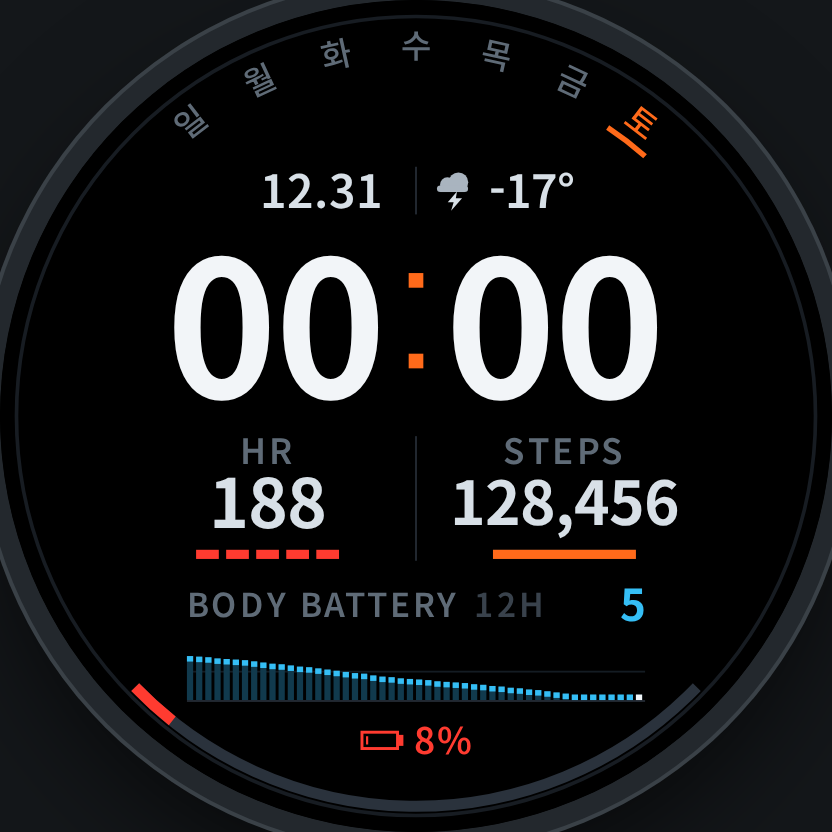
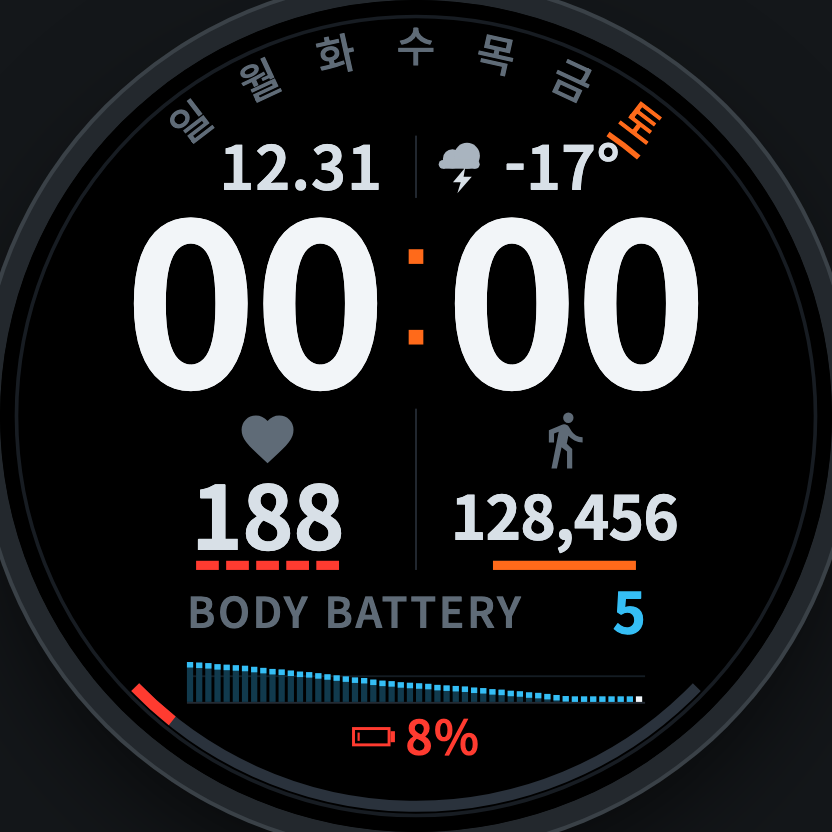
fix: AOD에서 본 화면과 동일한 페이스 표시
fr265는 AMOLED 번인 보호 대상이라 저전력 모드에 픽셀 10% 이하, 같은
픽셀 3분 이상 점등 금지 규칙이 걸린다. 기존 AOD 레이어는 축소판을
정지 상태로 그려 3분 규칙에 걸렸고, 시계가 페이스를 끄고 기본 AOD로
대체했다.

AOD 전용 레이아웃/색상 분기를 모두 걷어내고, 저전력 모드에서는 같은
페이스를 그린 뒤 홀/짝 분마다 번갈아 가로 한 줄씩 가리는 마스크만
덮는다. 시뮬레이터 번인 검사: 휘도 사용 3.2%, 24시간 시뮬레이션 통과.

diff --git a/preview/face.js b/preview/face.js
@@ -114,10 +114,6 @@
     batArcW: 6,
     batArcSpan: 46, // degrees either side of bottom dead centre
 
-    /* always-on display: fewer elements, recomposed around the centre */
-    aodStripCy: 152,
-    aodTimeCy: 227,
-    aodBatCy: 312,
   };
 
   var VALUE_SIZES = [48, 43, 38, 33];
@@ -369,9 +365,9 @@
    * Sections
    * ------------------------------------------------------------------ */
 
-  function drawBezel(ctx, g, dim) {
+  function drawBezel(ctx, g) {
     ctx.beginPath();
-    ctx.strokeStyle = dim ? '#0E1216' : C.ring;
+    ctx.strokeStyle = C.ring;
     ctx.lineWidth = g(L.ringW);
     ctx.arc(g(227), g(227), g(L.ringR), 0, Math.PI * 2);
     ctx.stroke();
@@ -389,7 +385,7 @@
       var deg = (i - 3) * L.wdStep;
       var th = (deg * Math.PI) / 180;
       var on = i === today;
-      var color = on ? (opts.dim ? '#8A4413' : C.accent) : opts.dim ? '#2E353D' : C.textLow;
+      var color = on ? C.accent : C.textLow;
 
       ctx.save();
       ctx.translate(cx + Math.sin(th) * g(L.wdR), cy - Math.cos(th) * g(L.wdR));
@@ -414,18 +410,11 @@
   }
 
   function drawStrip(ctx, g, data, opts) {
-    var cy = opts.dim ? L.aodStripCy : L.stripCy;
-    var hi = opts.dim ? '#4C555D' : C.textVal;
-    var mid = opts.dim ? '#3B434B' : C.textMid;
+    var cy = L.stripCy;
+    var hi = C.textVal;
+    var mid = C.textMid;
 
-    rect(
-      ctx,
-      g(227) - g(1) / 2,
-      g(cy - (L.stripCy - L.stripDivTop)),
-      g(1),
-      g(L.stripDivBot - L.stripDivTop),
-      opts.dim ? '#161A1F' : C.hair,
-    );
+    rect(ctx, g(227) - g(1) / 2, g(L.stripDivTop), g(1), g(L.stripDivBot - L.stripDivTop), C.hair);
 
     text(ctx, pad2(data.month) + '.' + pad2(data.day), g(L.dateRight), g(cy), {
       size: gf(g, L.stripFont),
@@ -451,9 +440,9 @@
     var hh = pad2(data.hour);
     var mm = pad2(data.minute);
     var size = gf(g, L.timeFont);
-    var color = opts.dim ? '#606A73' : C.textHi;
+    var color = C.textHi;
     var cx = g(227);
-    var cy = g(opts.dim ? L.aodTimeCy : L.timeCy);
+    var cy = g(L.timeCy);
 
     tabular(ctx, hh, cx - g(L.colonHalfGap), cy, {
       size: size,
@@ -471,7 +460,7 @@
     });
 
     var sq = g(L.colonSq);
-    var ck = opts.dim ? '#6B3210' : C.accent;
+    var ck = C.accent;
     var ccy = cy + g(L.colonShift);
     rect(ctx, cx - sq / 2, ccy - g(L.colonDy) - sq / 2, sq, sq, ck);
     rect(ctx, cx - sq / 2, ccy + g(L.colonDy) - sq / 2, sq, sq, ck);
@@ -591,17 +580,15 @@
 
   function drawBattery(ctx, g, data, opts) {
     var pct = data.battery;
-    var col = opts.dim ? '#4C555D' : batteryColor(pct);
+    var col = batteryColor(pct);
 
     var cx = g(227);
-    var cy = opts.dim ? L.aodBatCy : L.batCy;
+    var cy = L.batCy;
 
-    if (!opts.dim) {
-      var from = 90 + L.batArcSpan;
-      var sweep = 2 * L.batArcSpan;
-      arc(ctx, cx, cx, g(L.batArcR), from, from - sweep, g(L.batArcW), C.arcTrack);
-      arc(ctx, cx, cx, g(L.batArcR), from, from - sweep * (pct / 100), g(L.batArcW), col);
-    }
+    var from = 90 + L.batArcSpan;
+    var sweep = 2 * L.batArcSpan;
+    arc(ctx, cx, cx, g(L.batArcR), from, from - sweep, g(L.batArcW), C.arcTrack);
+    arc(ctx, cx, cx, g(L.batArcR), from, from - sweep * (pct / 100), g(L.batArcW), col);
 
     /* numeric readout */
     var label = Math.round(pct) + '%';
@@ -640,9 +627,6 @@
     opts = opts || {};
     opts.weekdayLocale = opts.weekdayLocale || 'ko';
     FS = opts.fontScale || 1;
-    var dim = opts.mode === 'aod';
-    opts.dim = dim;
-
     var g = function (v) {
       return (v * size) / DESIGN;
     };
@@ -650,17 +634,24 @@
     ctx.save();
     circle(ctx, size / 2, size / 2, size / 2, C.bg);
 
-    drawBezel(ctx, g, dim);
+    drawBezel(ctx, g);
     drawWeekdays(ctx, g, data, opts);
     drawStrip(ctx, g, data, opts);
     drawTime(ctx, g, data, opts);
-
-    /* Always-on display keeps only the time-critical layer lit. */
-    if (!dim) {
-      drawStatRow(ctx, g, data);
-      drawBodyBattery(ctx, g, data);
-    }
+    drawStatRow(ctx, g, data);
+    drawBodyBattery(ctx, g, data);
     drawBattery(ctx, g, data, opts);
+
+    /* Always-on display is the same face behind a row mask: every other
+       device row is blanked and the parity flips with the minute, which is
+       what AMOLED burn-in protection asks for (<=10% lit, no pixel lit for
+       three minutes). Mirrors ReconView.drawAodMask. */
+    if (opts.mode === 'aod') {
+      ctx.fillStyle = C.bg;
+      for (var y = data.minute % 2; y < size; y += 2) {
+        ctx.fillRect(0, y, size, 1);
+      }
+    }
 
     ctx.restore();
   }

diff --git a/README.md b/README.md
@@ -64,9 +64,11 @@ bounding box. Wide values (a six-digit step count) step down through a font
 ladder rather than spilling into the neighbouring cell, and the body battery
 window tag (`12H`) is dropped when a three-digit body battery needs the room.
 
-**Always-on display** keeps the weekday arc, date, weather, time and battery
-percentage, recomposed around the centre so the face does not look half-drawn,
-and drops the bezel gauge, stat row and graph.
+**Always-on display** is the same face. AMOLED burn-in protection allows at
+most 10% of pixels lit and no pixel lit for three minutes straight, so in
+low-power mode every other row is blanked and the row parity flips with the
+minute: the face reads at half brightness and no pixel stays on for longer
+than a minute. The Forerunner 265 simulator reports 3.2% luminance usage.
 
 ## Layout and preview
 
@@ -218,11 +220,6 @@ Check them in this order:
 - The body battery window is fixed at 12 hours and its history is rebuilt at
   most once every 5 minutes; walking the sensor iterator is the most expensive
   thing this face does.
-- **No burn-in mitigation.** The always-on layer is dimmed but does not cycle
-  its position between minutes, which AMOLED devices want. The hook for it is
-  `Layout.AOD_*` plus the three AOD anchors read in `drawStrip`, `drawTime` and
-  `drawBattery` — shifting those by a couple of pixels per minute is the whole
-  change. It was left out rather than shipped untested.
 
 ## Third-party assets
 
